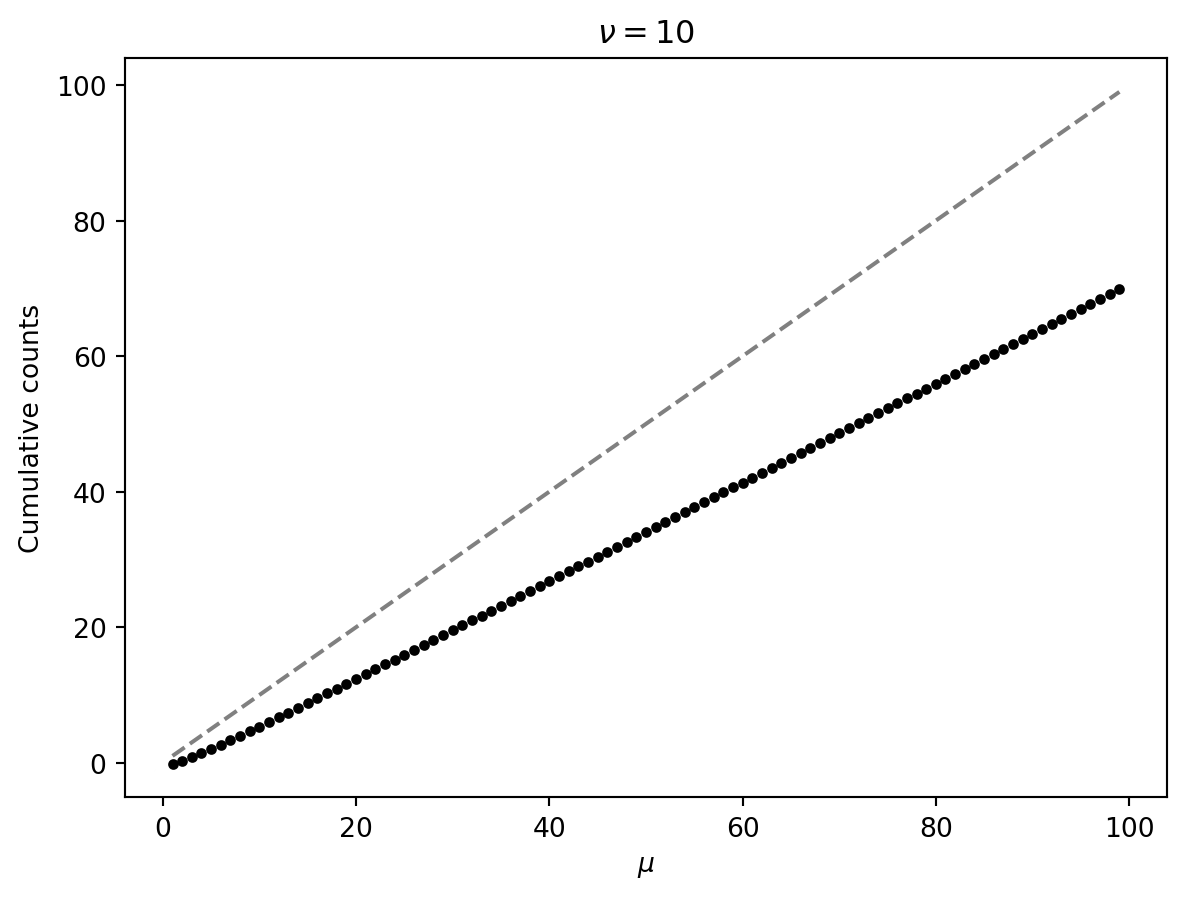
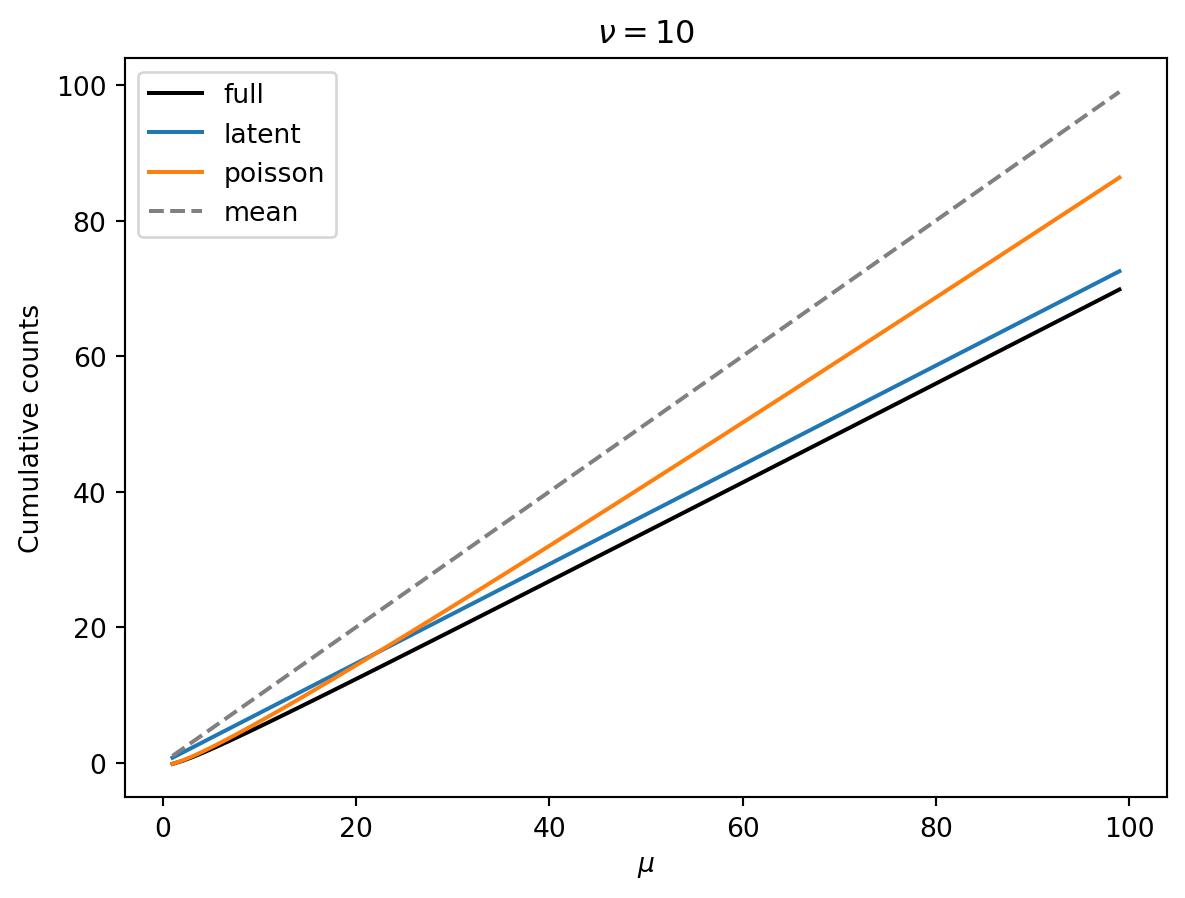
Add latent and poisson approximations to percentile charts.

diff --git a/docs/notebooks/2024-02-22_StochasticMVP.html b/docs/notebooks/2024-02-22_StochasticMVP.html
@@ -582,25 +582,34 @@ h_{11}(x) &amp; = - \frac{2\text{He}_3(x) + \text{He}_1(x)}{36} \\
 </section>
 <section id="percentiles" class="level3">
 <h3 class="anchored" data-anchor-id="percentiles">Percentiles</h3>
-<p>The following show the mean (dashed grey lines) and the 10th percentile (black dots) of cumulative counts as a function of the mean <span class="math inline">\(\mu\)</span>” Each plot has a different shape parameter <span class="math inline">\(\nu\)</span>.</p>
+<p>The following show the mean (dashed grey lines) and the 10th percentile (black) of cumulative counts as a function of the mean <span class="math inline">\(\mu\)</span>“. Colored lines are the latent and poisson regime approximations. Each plot has a different shape parameter <span class="math inline">\(\nu\)</span>.</p>
 <div class="cell" data-execution_count="11">
 <div class="sourceCode cell-code" id="cb12"><pre class="sourceCode python code-with-copy"><code class="sourceCode python"><span id="cb12-1"><a href="#cb12-1" aria-hidden="true" tabindex="-1"></a>order <span class="op">=</span> <span class="dv">4</span></span>
-<span id="cb12-2"><a href="#cb12-2" aria-hidden="true" tabindex="-1"></a><span class="co"># 10th percentile</span></span>
-<span id="cb12-3"><a href="#cb12-3" aria-hidden="true" tabindex="-1"></a>p <span class="op">=</span> <span class="fl">0.1</span></span>
-<span id="cb12-4"><a href="#cb12-4" aria-hidden="true" tabindex="-1"></a>x <span class="op">=</span> norm.ppf(p)</span>
-<span id="cb12-5"><a href="#cb12-5" aria-hidden="true" tabindex="-1"></a></span>
-<span id="cb12-6"><a href="#cb12-6" aria-hidden="true" tabindex="-1"></a>mu <span class="op">=</span> np.arange(<span class="dv">1</span>, <span class="dv">100</span>)</span>
-<span id="cb12-7"><a href="#cb12-7" aria-hidden="true" tabindex="-1"></a><span class="cf">for</span> nu <span class="kw">in</span> [<span class="dv">4</span>, <span class="dv">10</span>, <span class="dv">100</span>]:</span>
-<span id="cb12-8"><a href="#cb12-8" aria-hidden="true" tabindex="-1"></a>    cgfs <span class="op">=</span> [cgf_y_series(m, nu) <span class="cf">for</span> m <span class="kw">in</span> mu]</span>
-<span id="cb12-9"><a href="#cb12-9" aria-hidden="true" tabindex="-1"></a>    cumulants <span class="op">=</span> [[cumulant_from_cgf(cgf, k) <span class="cf">for</span> k <span class="kw">in</span> [<span class="dv">1</span>, <span class="dv">2</span>, <span class="dv">3</span>, <span class="dv">4</span>]] <span class="cf">for</span> cgf <span class="kw">in</span> cgfs]</span>
-<span id="cb12-10"><a href="#cb12-10" aria-hidden="true" tabindex="-1"></a>    <span class="cf">for</span> m, cs <span class="kw">in</span> <span class="bu">zip</span>(mu, cumulants):</span>
-<span id="cb12-11"><a href="#cb12-11" aria-hidden="true" tabindex="-1"></a>        cf <span class="op">=</span> cornish_fisher(<span class="op">*</span>cs)</span>
-<span id="cb12-12"><a href="#cb12-12" aria-hidden="true" tabindex="-1"></a>        plt.plot(m, cf(x), <span class="st">".k"</span>)</span>
-<span id="cb12-13"><a href="#cb12-13" aria-hidden="true" tabindex="-1"></a>    plt.plot(mu, mu, <span class="st">"--"</span>, color<span class="op">=</span><span class="st">"grey"</span>)</span>
-<span id="cb12-14"><a href="#cb12-14" aria-hidden="true" tabindex="-1"></a>    plt.xlabel(<span class="vs">r"$\mu$"</span>)</span>
-<span id="cb12-15"><a href="#cb12-15" aria-hidden="true" tabindex="-1"></a>    plt.ylabel(<span class="st">"Cumulative counts"</span>)</span>
-<span id="cb12-16"><a href="#cb12-16" aria-hidden="true" tabindex="-1"></a>    plt.title(<span class="vs">r"$\nu = $"</span> <span class="ss">f"</span><span class="sc">{</span>nu<span class="sc">}</span><span class="ss">"</span>)</span>
-<span id="cb12-17"><a href="#cb12-17" aria-hidden="true" tabindex="-1"></a>    plt.show()</span></code><button title="Copy to Clipboard" class="code-copy-button"><i class="bi"></i></button></pre></div>
+<span id="cb12-2"><a href="#cb12-2" aria-hidden="true" tabindex="-1"></a>ks <span class="op">=</span> <span class="bu">range</span>(<span class="dv">1</span>, order <span class="op">+</span> <span class="dv">1</span>)</span>
+<span id="cb12-3"><a href="#cb12-3" aria-hidden="true" tabindex="-1"></a><span class="co"># 10th percentile</span></span>
+<span id="cb12-4"><a href="#cb12-4" aria-hidden="true" tabindex="-1"></a>p <span class="op">=</span> <span class="fl">0.1</span></span>
+<span id="cb12-5"><a href="#cb12-5" aria-hidden="true" tabindex="-1"></a>x <span class="op">=</span> norm.ppf(p)</span>
+<span id="cb12-6"><a href="#cb12-6" aria-hidden="true" tabindex="-1"></a></span>
+<span id="cb12-7"><a href="#cb12-7" aria-hidden="true" tabindex="-1"></a>mus <span class="op">=</span> np.arange(<span class="dv">1</span>, <span class="dv">100</span>)</span>
+<span id="cb12-8"><a href="#cb12-8" aria-hidden="true" tabindex="-1"></a><span class="cf">for</span> nu <span class="kw">in</span> [<span class="dv">4</span>, <span class="dv">10</span>, <span class="dv">100</span>]:</span>
+<span id="cb12-9"><a href="#cb12-9" aria-hidden="true" tabindex="-1"></a>    cgfs <span class="op">=</span> [cgf_y_series(mu, nu) <span class="cf">for</span> mu <span class="kw">in</span> mus]</span>
+<span id="cb12-10"><a href="#cb12-10" aria-hidden="true" tabindex="-1"></a>    cumulants <span class="op">=</span> [[cumulant_from_cgf(cgf, k) <span class="cf">for</span> k <span class="kw">in</span> ks] <span class="cf">for</span> cgf <span class="kw">in</span> cgfs]</span>
+<span id="cb12-11"><a href="#cb12-11" aria-hidden="true" tabindex="-1"></a>    cumulants_latent <span class="op">=</span> [</span>
+<span id="cb12-12"><a href="#cb12-12" aria-hidden="true" tabindex="-1"></a>        [factorial(k <span class="op">-</span> <span class="dv">1</span>) <span class="op">/</span> k <span class="op">*</span> nu <span class="op">*</span> (mu <span class="op">/</span> nu) <span class="op">**</span> k <span class="cf">for</span> k <span class="kw">in</span> ks] <span class="cf">for</span> mu <span class="kw">in</span> mus</span>
+<span id="cb12-13"><a href="#cb12-13" aria-hidden="true" tabindex="-1"></a>    ]</span>
+<span id="cb12-14"><a href="#cb12-14" aria-hidden="true" tabindex="-1"></a>    cumulants_poisson <span class="op">=</span> [[mu <span class="cf">for</span> _ <span class="kw">in</span> ks] <span class="cf">for</span> mu <span class="kw">in</span> mus]</span>
+<span id="cb12-15"><a href="#cb12-15" aria-hidden="true" tabindex="-1"></a>    cf <span class="op">=</span> [cornish_fisher(<span class="op">*</span>cs)(x) <span class="cf">for</span> cs <span class="kw">in</span> cumulants]</span>
+<span id="cb12-16"><a href="#cb12-16" aria-hidden="true" tabindex="-1"></a>    cf_l <span class="op">=</span> [cornish_fisher(<span class="op">*</span>cs)(x) <span class="cf">for</span> cs <span class="kw">in</span> cumulants_latent]</span>
+<span id="cb12-17"><a href="#cb12-17" aria-hidden="true" tabindex="-1"></a>    cf_p <span class="op">=</span> [cornish_fisher(<span class="op">*</span>cs)(x) <span class="cf">for</span> cs <span class="kw">in</span> cumulants_poisson]</span>
+<span id="cb12-18"><a href="#cb12-18" aria-hidden="true" tabindex="-1"></a>    plt.plot(mus, cf, <span class="st">"k"</span>, label<span class="op">=</span><span class="st">"full"</span>)</span>
+<span id="cb12-19"><a href="#cb12-19" aria-hidden="true" tabindex="-1"></a>    plt.plot(mus, cf_l, color<span class="op">=</span><span class="st">"C0"</span>, label<span class="op">=</span><span class="st">"latent"</span>)</span>
+<span id="cb12-20"><a href="#cb12-20" aria-hidden="true" tabindex="-1"></a>    plt.plot(mus, cf_p, color<span class="op">=</span><span class="st">"C1"</span>, label<span class="op">=</span><span class="st">"poisson"</span>)</span>
+<span id="cb12-21"><a href="#cb12-21" aria-hidden="true" tabindex="-1"></a>    plt.plot(mus, mus, <span class="st">"--"</span>, color<span class="op">=</span><span class="st">"grey"</span>, label<span class="op">=</span><span class="st">"mean"</span>)</span>
+<span id="cb12-22"><a href="#cb12-22" aria-hidden="true" tabindex="-1"></a>    plt.xlabel(<span class="vs">r"$\mu$"</span>)</span>
+<span id="cb12-23"><a href="#cb12-23" aria-hidden="true" tabindex="-1"></a>    plt.ylabel(<span class="st">"Cumulative counts"</span>)</span>
+<span id="cb12-24"><a href="#cb12-24" aria-hidden="true" tabindex="-1"></a>    plt.title(<span class="vs">r"$\nu = $"</span> <span class="ss">f"</span><span class="sc">{</span>nu<span class="sc">}</span><span class="ss">"</span>)</span>
+<span id="cb12-25"><a href="#cb12-25" aria-hidden="true" tabindex="-1"></a>    plt.legend()</span>
+<span id="cb12-26"><a href="#cb12-26" aria-hidden="true" tabindex="-1"></a>    plt.show()</span></code><button title="Copy to Clipboard" class="code-copy-button"><i class="bi"></i></button></pre></div>
 <div class="cell-output cell-output-display">
 <p><img src="2024-02-22_StochasticMVP_files/figure-html/cell-12-output-1.png" width="593" height="449"></p>
 </div>
@@ -616,6 +625,7 @@ h_{11}(x) &amp; = - \frac{2\text{He}_3(x) + \text{He}_1(x)}{36} \\
 <li>Smaller <span class="math inline">\(\nu\)</span> means that we have a greater reduction of the 10th percentile from the mean.</li>
 <li>Smaller <span class="math inline">\(\nu\)</span> means that the 10th percentile increase linearly (as expected in the latent regime).</li>
 <li>As <span class="math inline">\(\nu\)</span> gets larger, there is a wider Poisson-dominated regime where the tenth percentile increases like <span class="math inline">\(\mu + \mu^{1/2} const.\)</span>.</li>
+<li>Unless <span class="math inline">\(\nu\)</span> is very large, we can probably get away with the latent-regime approximation</li>
 </ul>
 </section>
 </section>

diff --git a/docs/index.html b/docs/index.html
@@ -145,7 +145,7 @@ ul.task-list li input[type="checkbox"] {
 
 <div class="quarto-listing quarto-listing-container-default" id="listing-listing">
 <div class="list quarto-listing-default">
-<div class="quarto-post image-right" data-index="0" data-listing-date-sort="1709528400000" data-listing-file-modified-sort="1710270528186" data-listing-date-modified-sort="NaN" data-listing-reading-time-sort="17">
+<div class="quarto-post image-right" data-index="0" data-listing-date-sort="1709528400000" data-listing-file-modified-sort="1710274282286" data-listing-date-modified-sort="NaN" data-listing-reading-time-sort="17">
 <div class="thumbnail">
 <p><a href="./notebooks/2024-02-22_StochasticMVP.html"> <p class="card-img-top"><img src="notebooks/2024-02-22_StochasticMVP_files/figure-html/cell-5-output-1.png"  class="thumbnail-image card-img"/></p> </a></p>
 </div>
